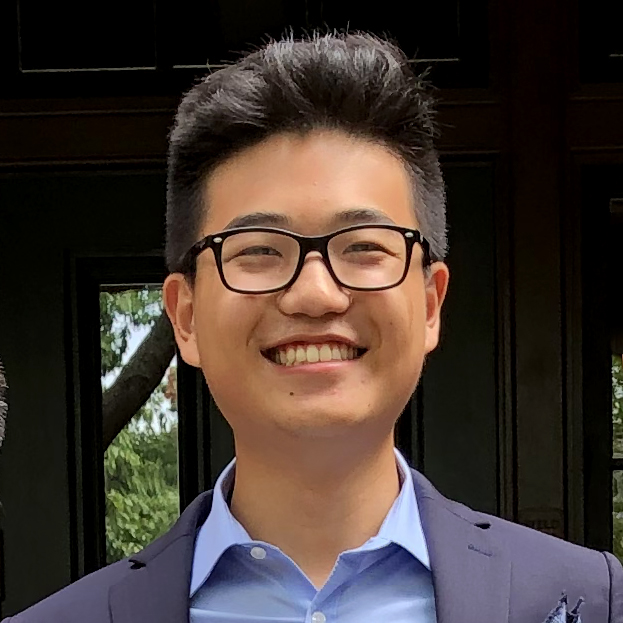
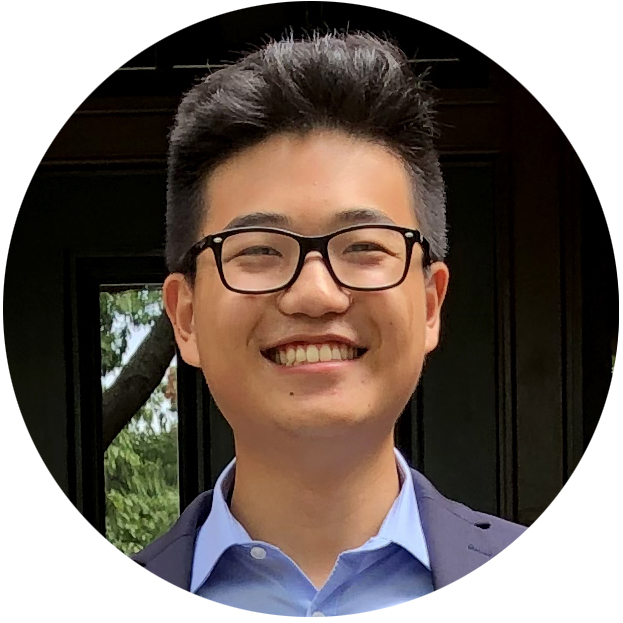
Update #3
Added picture and favicon fully. First Official release

Changed region(s): [[0.0, 0.0, 1.0, 1.0]]

diff --git a/photography.html b/photography.html
@@ -5,7 +5,7 @@
     <meta name="viewport" content="width=device-width, initial-scale=1, shrink-to-fit=no">
     <meta name="description" content="1st-year Undergraduate at Harvard">
     <meta name="author" content="Matt Fu">
-    <link rel="icon" href="mattfu.com/favicon.ico">
+    <link rel="icon" href="favicon.ico" type="image">
 
     <title>Matt Fu - Harvard University</title>
 
@@ -16,6 +16,7 @@
   </head>
   </body>
     <div class="px-5 py-1 pt-md-5 mx-auto text-center">
+      <img src="Website.jpg" class="img-circle" alt="MattFu" width="200" height="200">
       <h1 class="display-3">Matt Fu</h1>
       <p class="display-4">Undergraduate at Harvard University</p>
     </div>

diff --git a/projects.html b/projects.html
@@ -5,7 +5,7 @@
     <meta name="viewport" content="width=device-width, initial-scale=1, shrink-to-fit=no">
     <meta name="description" content="1st-year Undergraduate at Harvard">
     <meta name="author" content="Matt Fu">
-    <link rel="icon" href="mattfu.com/favicon.ico">
+    <link rel="icon" href="favicon.ico" type="image">
 
     <title>Matt Fu - Harvard University</title>
 
@@ -16,6 +16,7 @@
   </head>
   </body>
     <div class="px-5 py-1 pt-md-5 mx-auto text-center">
+      <img src="Website.jpg" class="img-circle" alt="MattFu" width="200" height="200">
       <h1 class="display-3">Matt Fu</h1>
       <p class="display-4">Undergraduate at Harvard University</p>
     </div>

diff --git a/publications.html b/publications.html
@@ -5,7 +5,7 @@
     <meta name="viewport" content="width=device-width, initial-scale=1, shrink-to-fit=no">
     <meta name="description" content="1st-year Undergraduate at Harvard">
     <meta name="author" content="Matt Fu">
-    <link rel="icon" href="mattfu.com/favicon.ico">
+    <link rel="icon" href="favicon.ico" type="image">
 
     <title>Matt Fu - Harvard University</title>
 
@@ -16,6 +16,7 @@
   </head>
   </body>
     <div class="px-5 py-1 pt-md-5 mx-auto text-center">
+      <img src="Website.jpg" class="img-circle" alt="MattFu" width="200" height="200">
       <h1 class="display-3">Matt Fu</h1>
       <p class="display-4">Undergraduate at Harvard University</p>
     </div>

diff --git a/research.html b/research.html
@@ -5,7 +5,7 @@
     <meta name="viewport" content="width=device-width, initial-scale=1, shrink-to-fit=no">
     <meta name="description" content="1st-year Undergraduate at Harvard">
     <meta name="author" content="Matt Fu">
-    <link rel="icon" href="mattfu.com/favicon.ico">
+    <link rel="icon" href="favicon.ico" type="image">
 
     <title>Matt Fu - Harvard University</title>
 
@@ -16,6 +16,7 @@
   </head>
   </body>
     <div class="px-5 py-1 pt-md-5 mx-auto text-center">
+      <img src="Website.jpg" class="img-circle" alt="MattFu" width="200" height="200">
       <h1 class="display-3">Matt Fu</h1>
       <p class="display-4">Undergraduate at Harvard University</p>
     </div>
